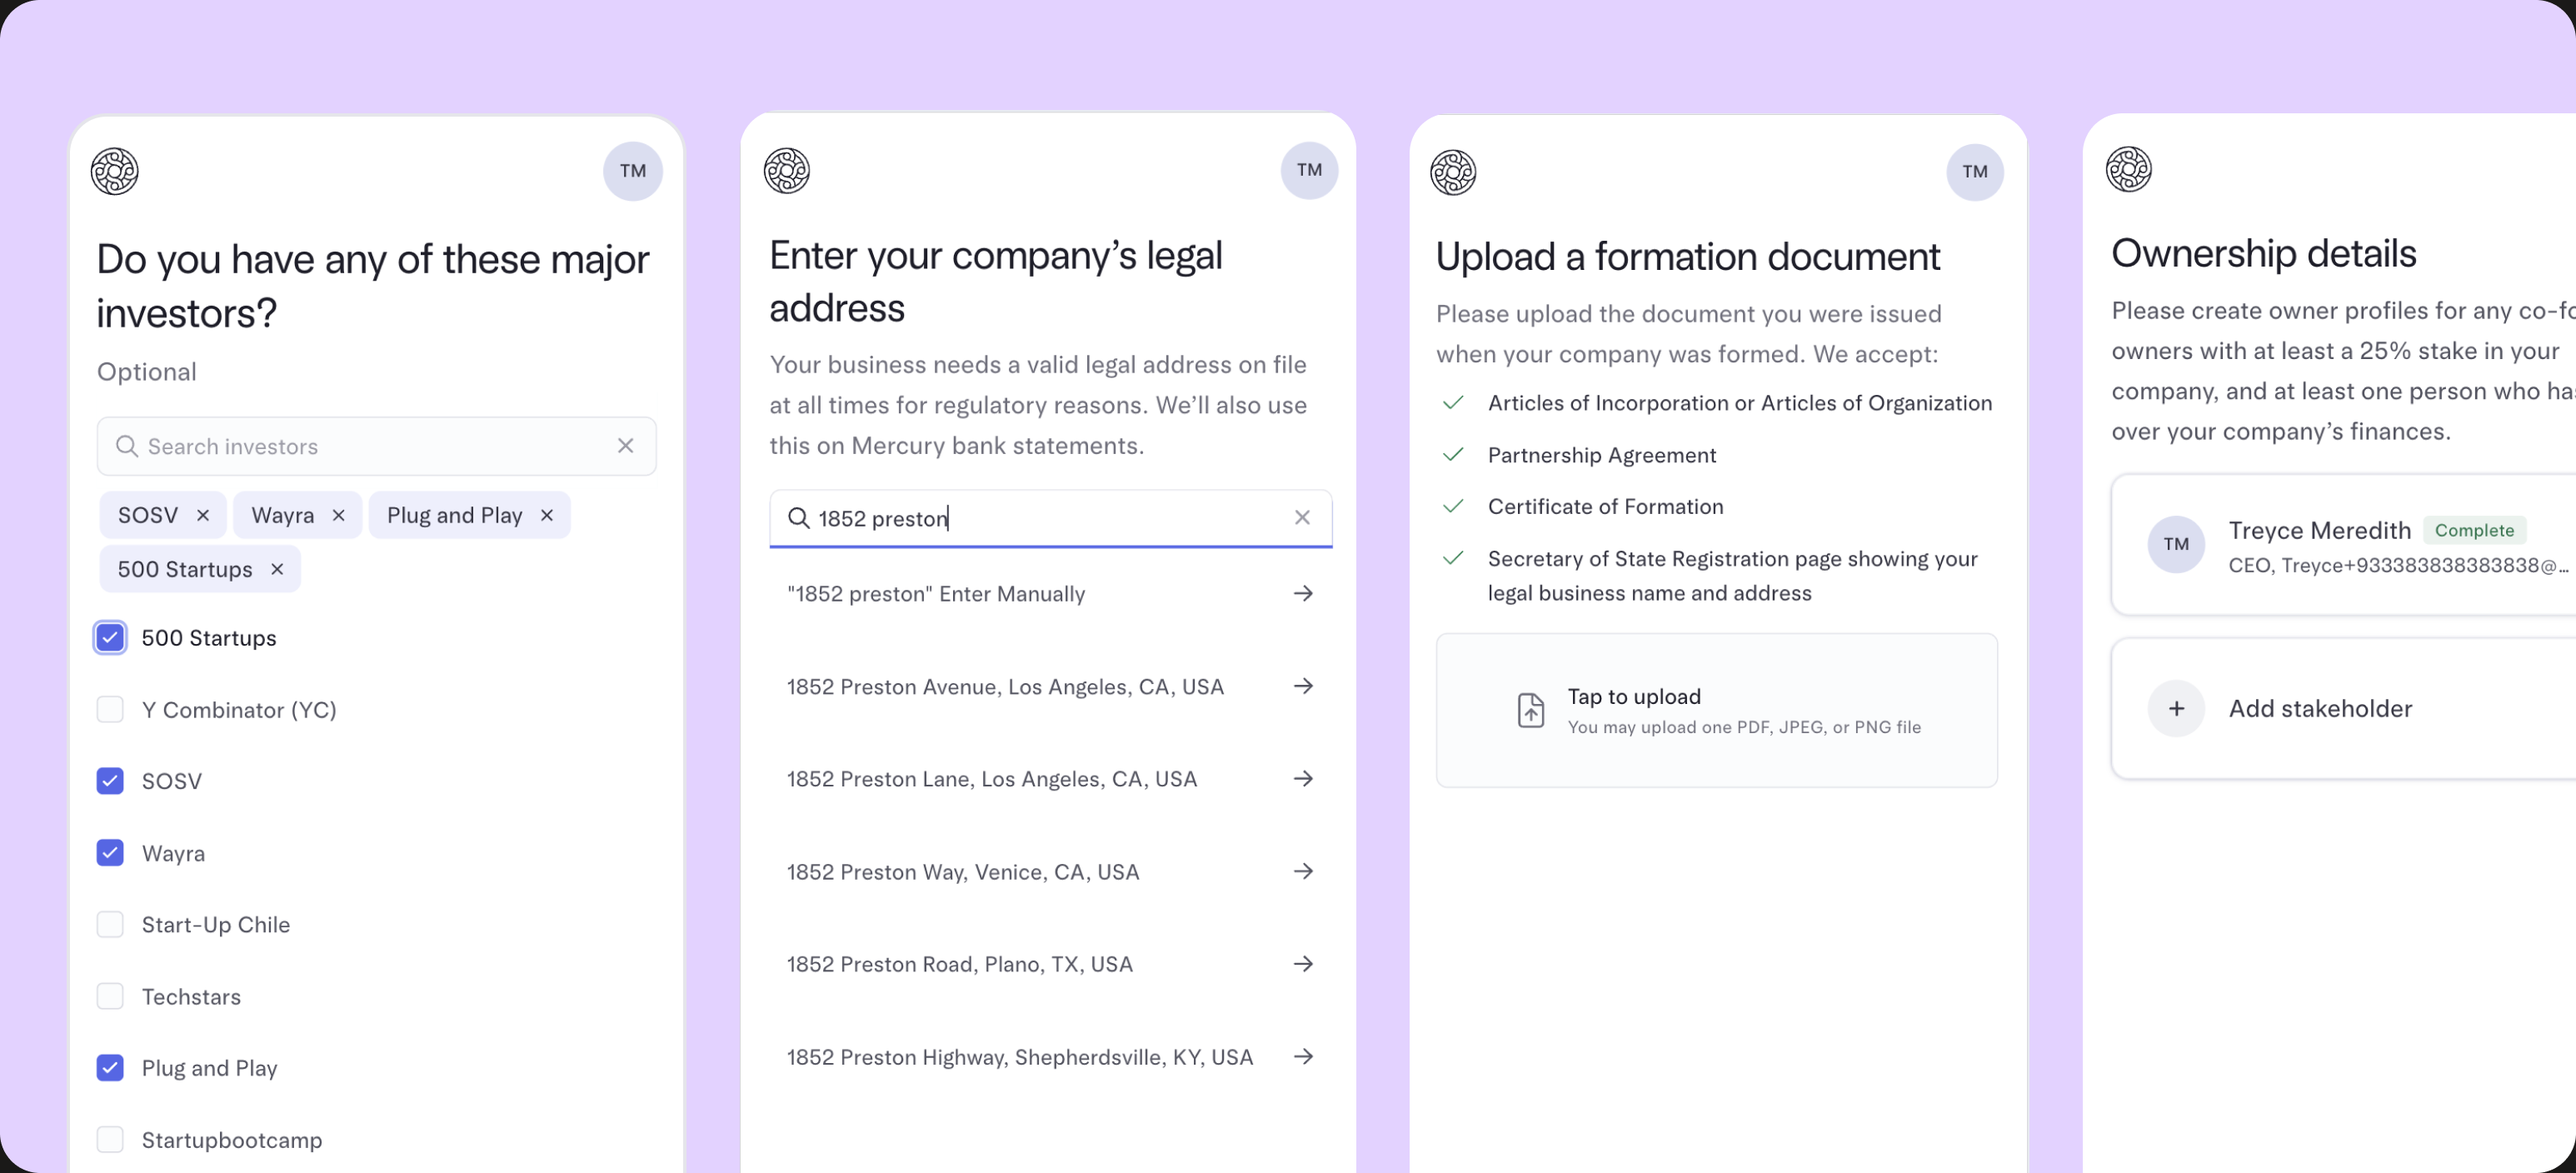
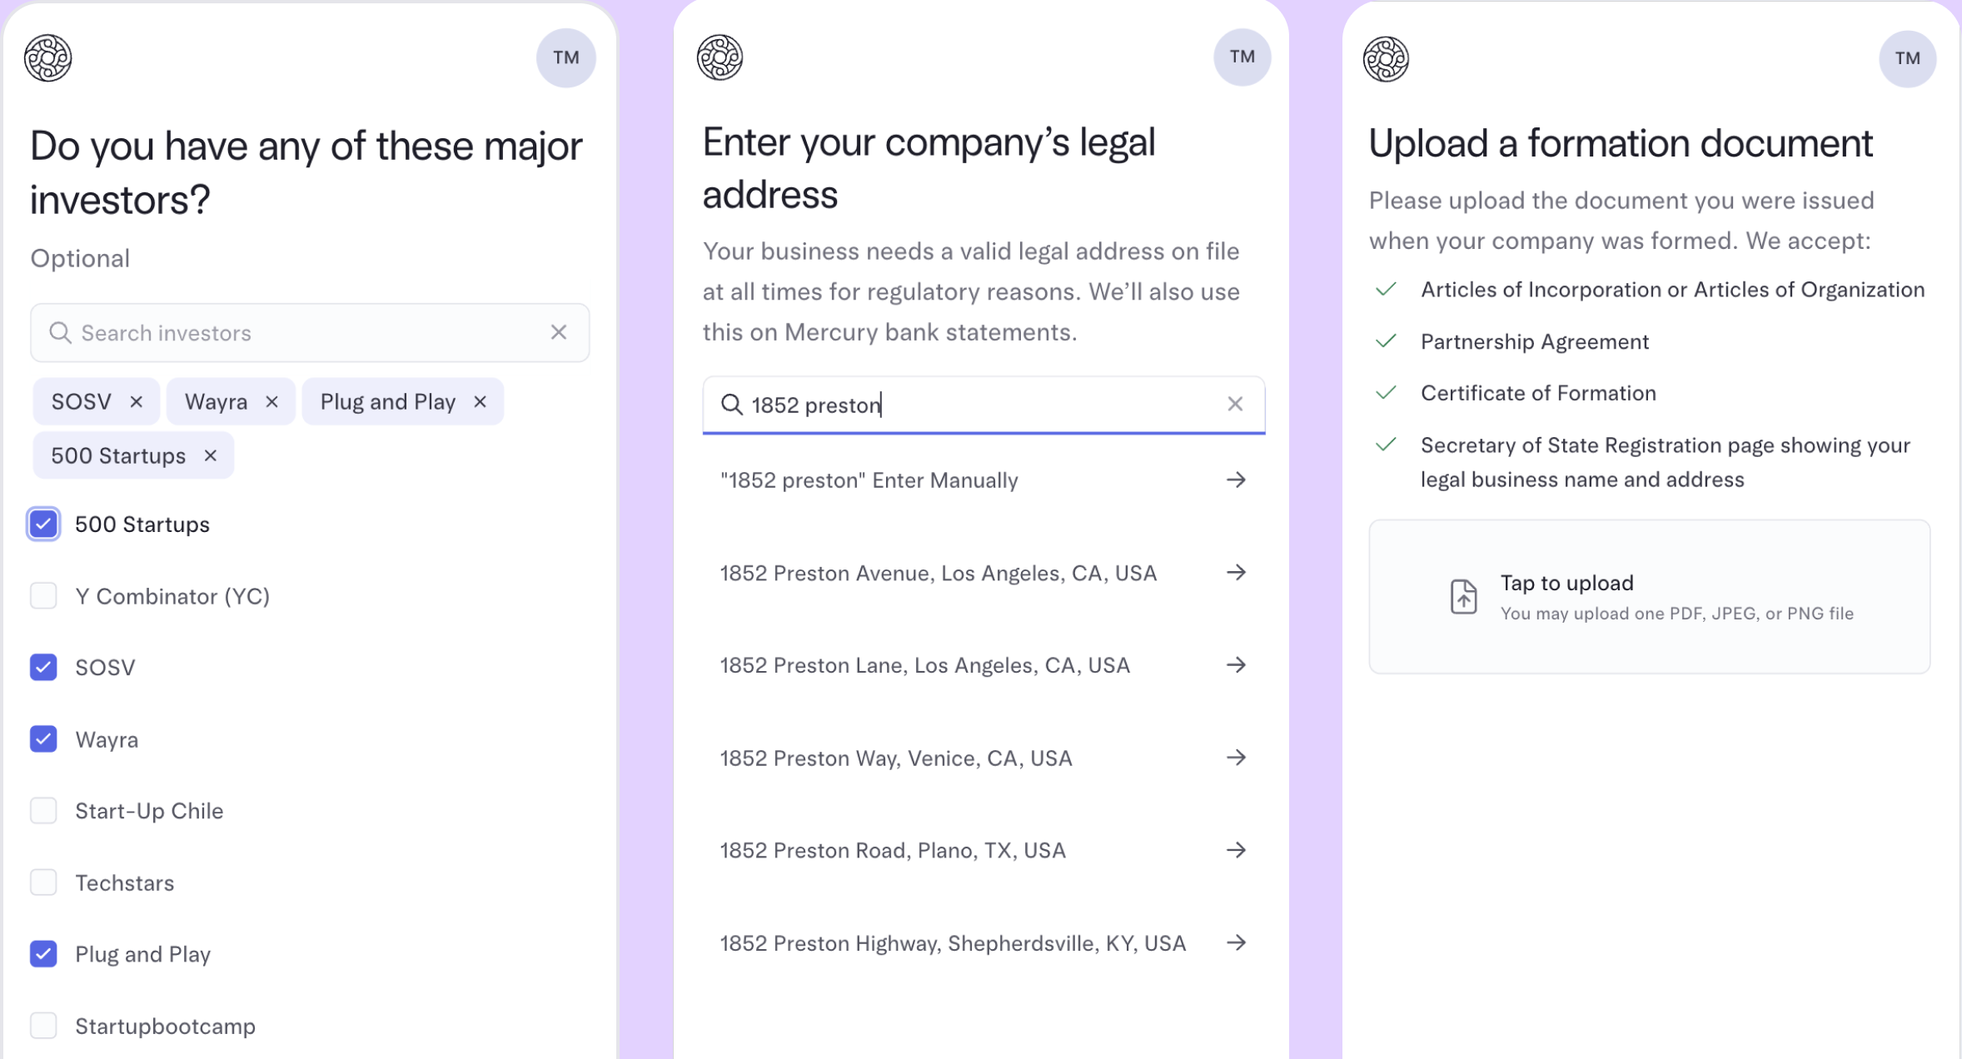
feat: show three larger activation screens inset on purple card
Crop the activation export to its first three screens and inset it on
the purple background, bleeding off the bottom, per Figma 102:2504.

diff --git a/src/index.css b/src/index.css
@@ -289,7 +289,12 @@ body {
   }
 
   .work-card--purple {
+    padding: 4.5% 2.8% 0;
     background: var(--color-work-purple);
+  }
+
+  .work-card--purple .work-card__media {
+    height: auto;
   }
 
   .work-card--green {
